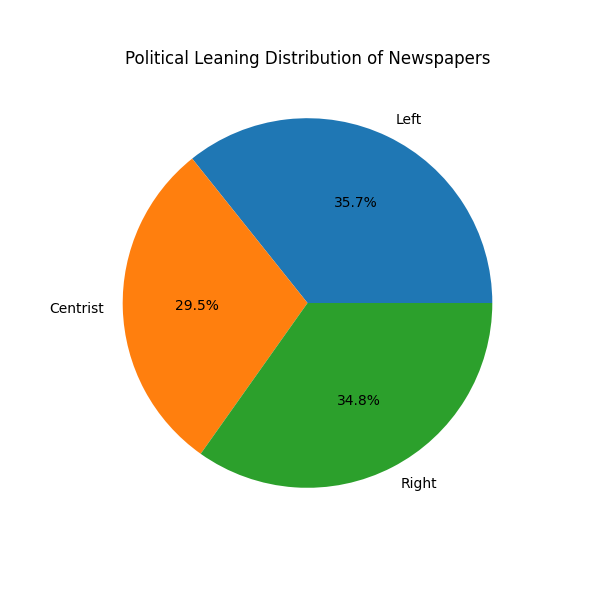
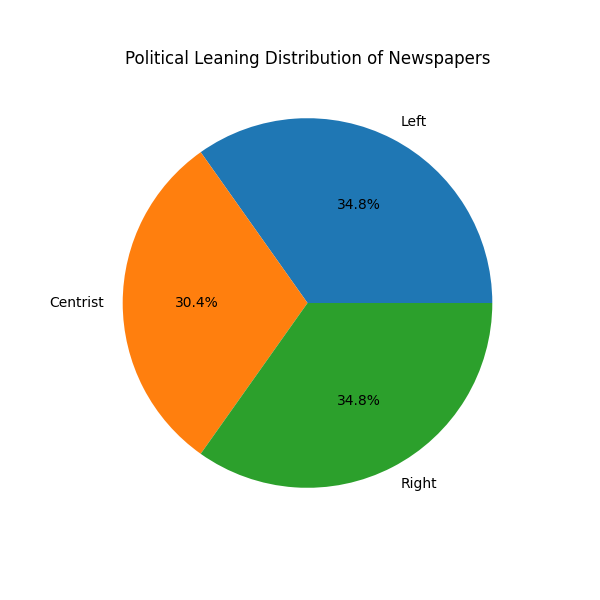
Include Buzzfeed as a centrist newspaper

diff --git a/src/newspaper_distribution.py b/src/newspaper_distribution.py
@@ -30,14 +30,14 @@ left_sources = {
     "Washington Post",
     "HuffPost", "Raw Story",
     "TheWrap",
-    "Buzzfeed"
 }
 
 centrist_sources = {
     "CBS News", "CNBC",
     "ABC News",
     "Reuters",
-    "USA Today"
+    "USA Today",
+    "Buzzfeed"
 }
 
 right_sources = {
